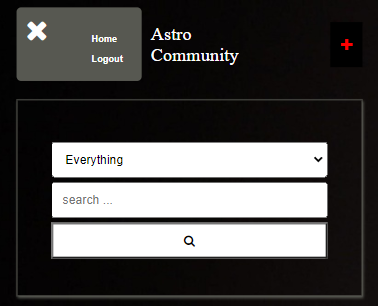
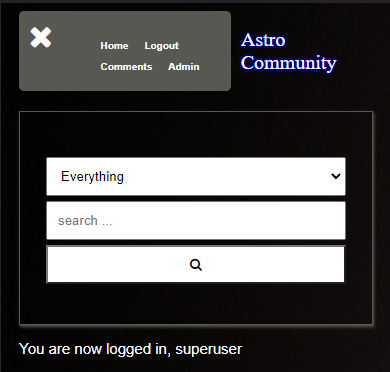
Additional details added to Readme to incorperate the new user dashboard function

diff --git a/README.md b/README.md
@@ -91,7 +91,7 @@ As a developer, I need to set up the project to lay the groundwork for incorpora
 As a developer, I want to create a base HTML page to maintain a consistent format across all pages.
 As a user, I want seamless navigation throughout the site on my mobile and tablet devices.
 As a site owner, I want to enable users to sign up for new accounts, fostering communication and interaction.
-As a developer, I want to ensure smooth deployment via ElephantSQL to circumvent potential issues.
+As a developer, I want to ensure smooth deployment via Heroku / ElephantSQL to circumvent potential issues.
 
 Epic 2 - Database Model and Admin
 
@@ -101,7 +101,7 @@ Epic 2 User Stories:
 
 As a developer, I want to create the foundation for the database, enabling users to update their posts by commenting below them.
 As a developer, I want to be able to delete comments / replies from all users within Front.
-As a user, I want the ability to remove my own comments and replies, while ensuring that this action is limited exclusively to my own submissions.
+As a user, I want the ability to remove my own comments,replies and edit my comments while ensuring that this action is limited exclusively to my own submissions.
 As a non-logged-in user, I want to browse ideas from other users, but I will need to log in to post my own.
 
 Epic 3 - Login, Signup, and Logout Pages
@@ -143,6 +143,8 @@ Epic 6 Tasks
 ## Scope
 - Implement responsive design.
 - Create a homepage featuring categories for various topics.
+- Create a admin dashboard only available to the administrator
+- Create a page for comments where users have the ability to edit their comments.
 - Provide a search field for users to locate specific topics.
 - Display user post count and a point system managed by the administrator.
 - Indicate engagement levels using images under each category, representing low engagement, popular topics, closed topics, etc.
@@ -158,13 +160,13 @@ User story - As a user I want to be able to navigate easily around the site easi
 
 Navigation Menu
 
-When the user is not logged in the navigation bar links to the Sign In, Sign Up page and the Home Page and the '+' Button is not visible
+When the user is not logged in the navigation bar links to the Sign In, Sign Up page and the Home Page and the 'Click here to create post' button is not visible
 
-![Animated GIF](static/assets/gif/nousers.gif)
+<img src="https://github.com/PrezBala/project4/blob/main/static/assets/images/pendingsignin.png">
 
-Once the user has signed in the navigation menu changes to Log out and Home with the '+' appearing, allow the user to create a new post.
+Once the user has signed in the navigation menu changes to Comments, Log out and Home.
 
-![Animated GIF](static/assets/gif/user.gif)
+<img src="https://github.com/PrezBala/project4/blob/main/static/assets/images/signin1.png">
 
 On smaller devices, i ensured the NavBar shows correctly with all text visible.
 
@@ -172,16 +174,15 @@ On smaller devices, i ensured the NavBar shows correctly with all text visible.
 
 ### Astro Community Features - ADMIN
 
-Once the user has signed in the navigation menu changes to Log out and Home with the '+' appearing, allow the user to create a new post.
+Once the user has signed in the navigation menu changes to Log out and Home with the "Click here to create a new post" message appearing, allow the user to create a new post.
 
-![Animated GIF](static/assets/gif/admin.gif)
+<img src="https://github.com/PrezBala/project4/blob/main/static/assets/images/adminsignin.png">
 
 I've designed an Admin interface that provides the administrator with the ability to edit, delete, and approve user-submitted posts.
 
 Administrators will possess unique authorizations that standard users do not have access to. This includes an exclusive 'Admin' page accessible through the forum's frontpage navigation bar. On this page, administrators can view all posts and have the option to edit, delete, and authorize comments for public viewing on the website. Additionally, the design has been enhanced to ensure clarity and aesthetic appeal.
 
 <img src="https://github.com/PrezBala/project4/blob/main/static/assets/images/updatebasicmodel.png">
-
 
 ### Home Page
 
@@ -195,7 +196,7 @@ A search function is included, allowing users to look for topics of interest. If
 
 <img src="https://github.com/PrezBala/project4/blob/main/static/assets/images/searchbox.png">
 
-Once logged in, users can click the '+' symbol to create a new post by entering a title, content, and selecting a category. Tags can also be added to improve search accuracy.
+After logging in, users will see a message "Click here to create a new post". By clicking on this message, they can create a new post by providing a title, content, and selecting a category. Additionally, users can add tags to improve the accuracy of the search results.
 
 <img src="https://github.com/PrezBala/project4/blob/main/static/assets/images/plus.png">
 
@@ -382,8 +383,7 @@ Steps:
 - Enter Full name, Bio and upload profile picture
 - Click Update
 
-Expected outcome: The user is redirected to the home page, and the navbar displays the log out and home options along with the '+' symbol.
-Actual outcome: The user is indeed redirected to the home page, and the navbar updates to show the log out and home options as well as the '+' symbol.
+Expected outcome: Upon successful creation of a new post, the user is redirected to the home page. The navbar on the top of the page will be updated to show options for logging out and returning to the home page. Additionally, the navbar will display a button with the message "Click here to create a new post" which users can click to create additional posts.
 
 ### Log out Page
 
@@ -392,9 +392,9 @@ Steps:
 - Navigate to Log Out page
 - Click Confirm button
 
-Expected outcome: Upon completing the action, the user is redirected to the homepage, and the navbar should only display options for signing in, signing up, and returning home. The '+' icon should not be present.
+Expected outcome: Upon completing the action, the user is redirected to the homepage, and the navbar should only display options for signing in, signing up, and returning home. The message "Click here to create a new post" should not be present.
 
-Actual outcome: The expected outcome was met, and the user was redirected to the homepage with the navbar displaying only options for signing in, signing up, and returning home. The '+' icon was not present.
+Actual outcome: The expected outcome was met, and the user was redirected to the homepage with the navbar displaying only options for signing in, signing up, and returning home. The message "Click here to create a new post" was not present.
 
 ### Log in
 
@@ -405,9 +405,9 @@ Steps:
 - Enter User Name and Password
 - Click Sign in
 
-Expected outcome: Upon completing the action, the user is redirected to the homepage, and the navbar should only display options for logging out and returning home. The '+' icon should be present.
+Expected outcome: Upon completing the action, the user is redirected to the homepage, and the navbar should only display options for logging out and returning home. The "Click here to create a new post" message should be present.
 
-Actual outcome: The expected outcome was met, and the user was redirected to the homepage with the navbar displaying only options for logging out and returning home. The '+' icon was present.
+Actual outcome: The expected outcome was met, and the user was redirected to the homepage with the navbar displaying only options for logging out and returning home. The "Click here to create a new post" message was present.
 
 ### Create New Post
 
@@ -416,7 +416,7 @@ Testing was carried out to ensure the user could create a new post.
 Assuming user is already logged in
 Steps:
 - Navigate to the home page
-- Click the '+' symbol
+- Click the button "Click here to create a new post" 
 - Complete form
   - Title
   - Content
@@ -458,6 +458,16 @@ Steps:
 <img src="https://github.com/PrezBala/project4/blob/main/static/assets/images/adminpage.png">
 
 Expected outcome:  The user will be redirected back to admin main page.
+
+Upon successful login, I have designed a "Comments" page that displays a table containing all the comments made by the user within the forum. The user can select any comment from the list and either edit or delete it.
+
+<img src="https://github.com/PrezBala/project4/blob/main/static/assets/images/commentboard.png">
+
+Upon selecting the "Edit" option for a specific comment, the user will be directed to a page that resembles the image provided. This page will allow the user to make modifications to their comment and then save those changes by clicking on the "Update Comment" button. This functionality ensures that users can successfully edit and delete the comments they have made.
+
+<img src="https://github.com/PrezBala/project4/blob/main/static/assets/images/editcomment.png">
+
+The expected outcome of implementing the feature to edit and delete comments is that users are able to modify and remove their comments successfully.
 
 The outcome was as expected.
 
@@ -513,6 +523,7 @@ Steps
 <img src="https://github.com/PrezBala/project4/blob/main/static/assets/images/closedpost2.png">
 
 The outcome was as expected.
+
 
 ### User test
 
